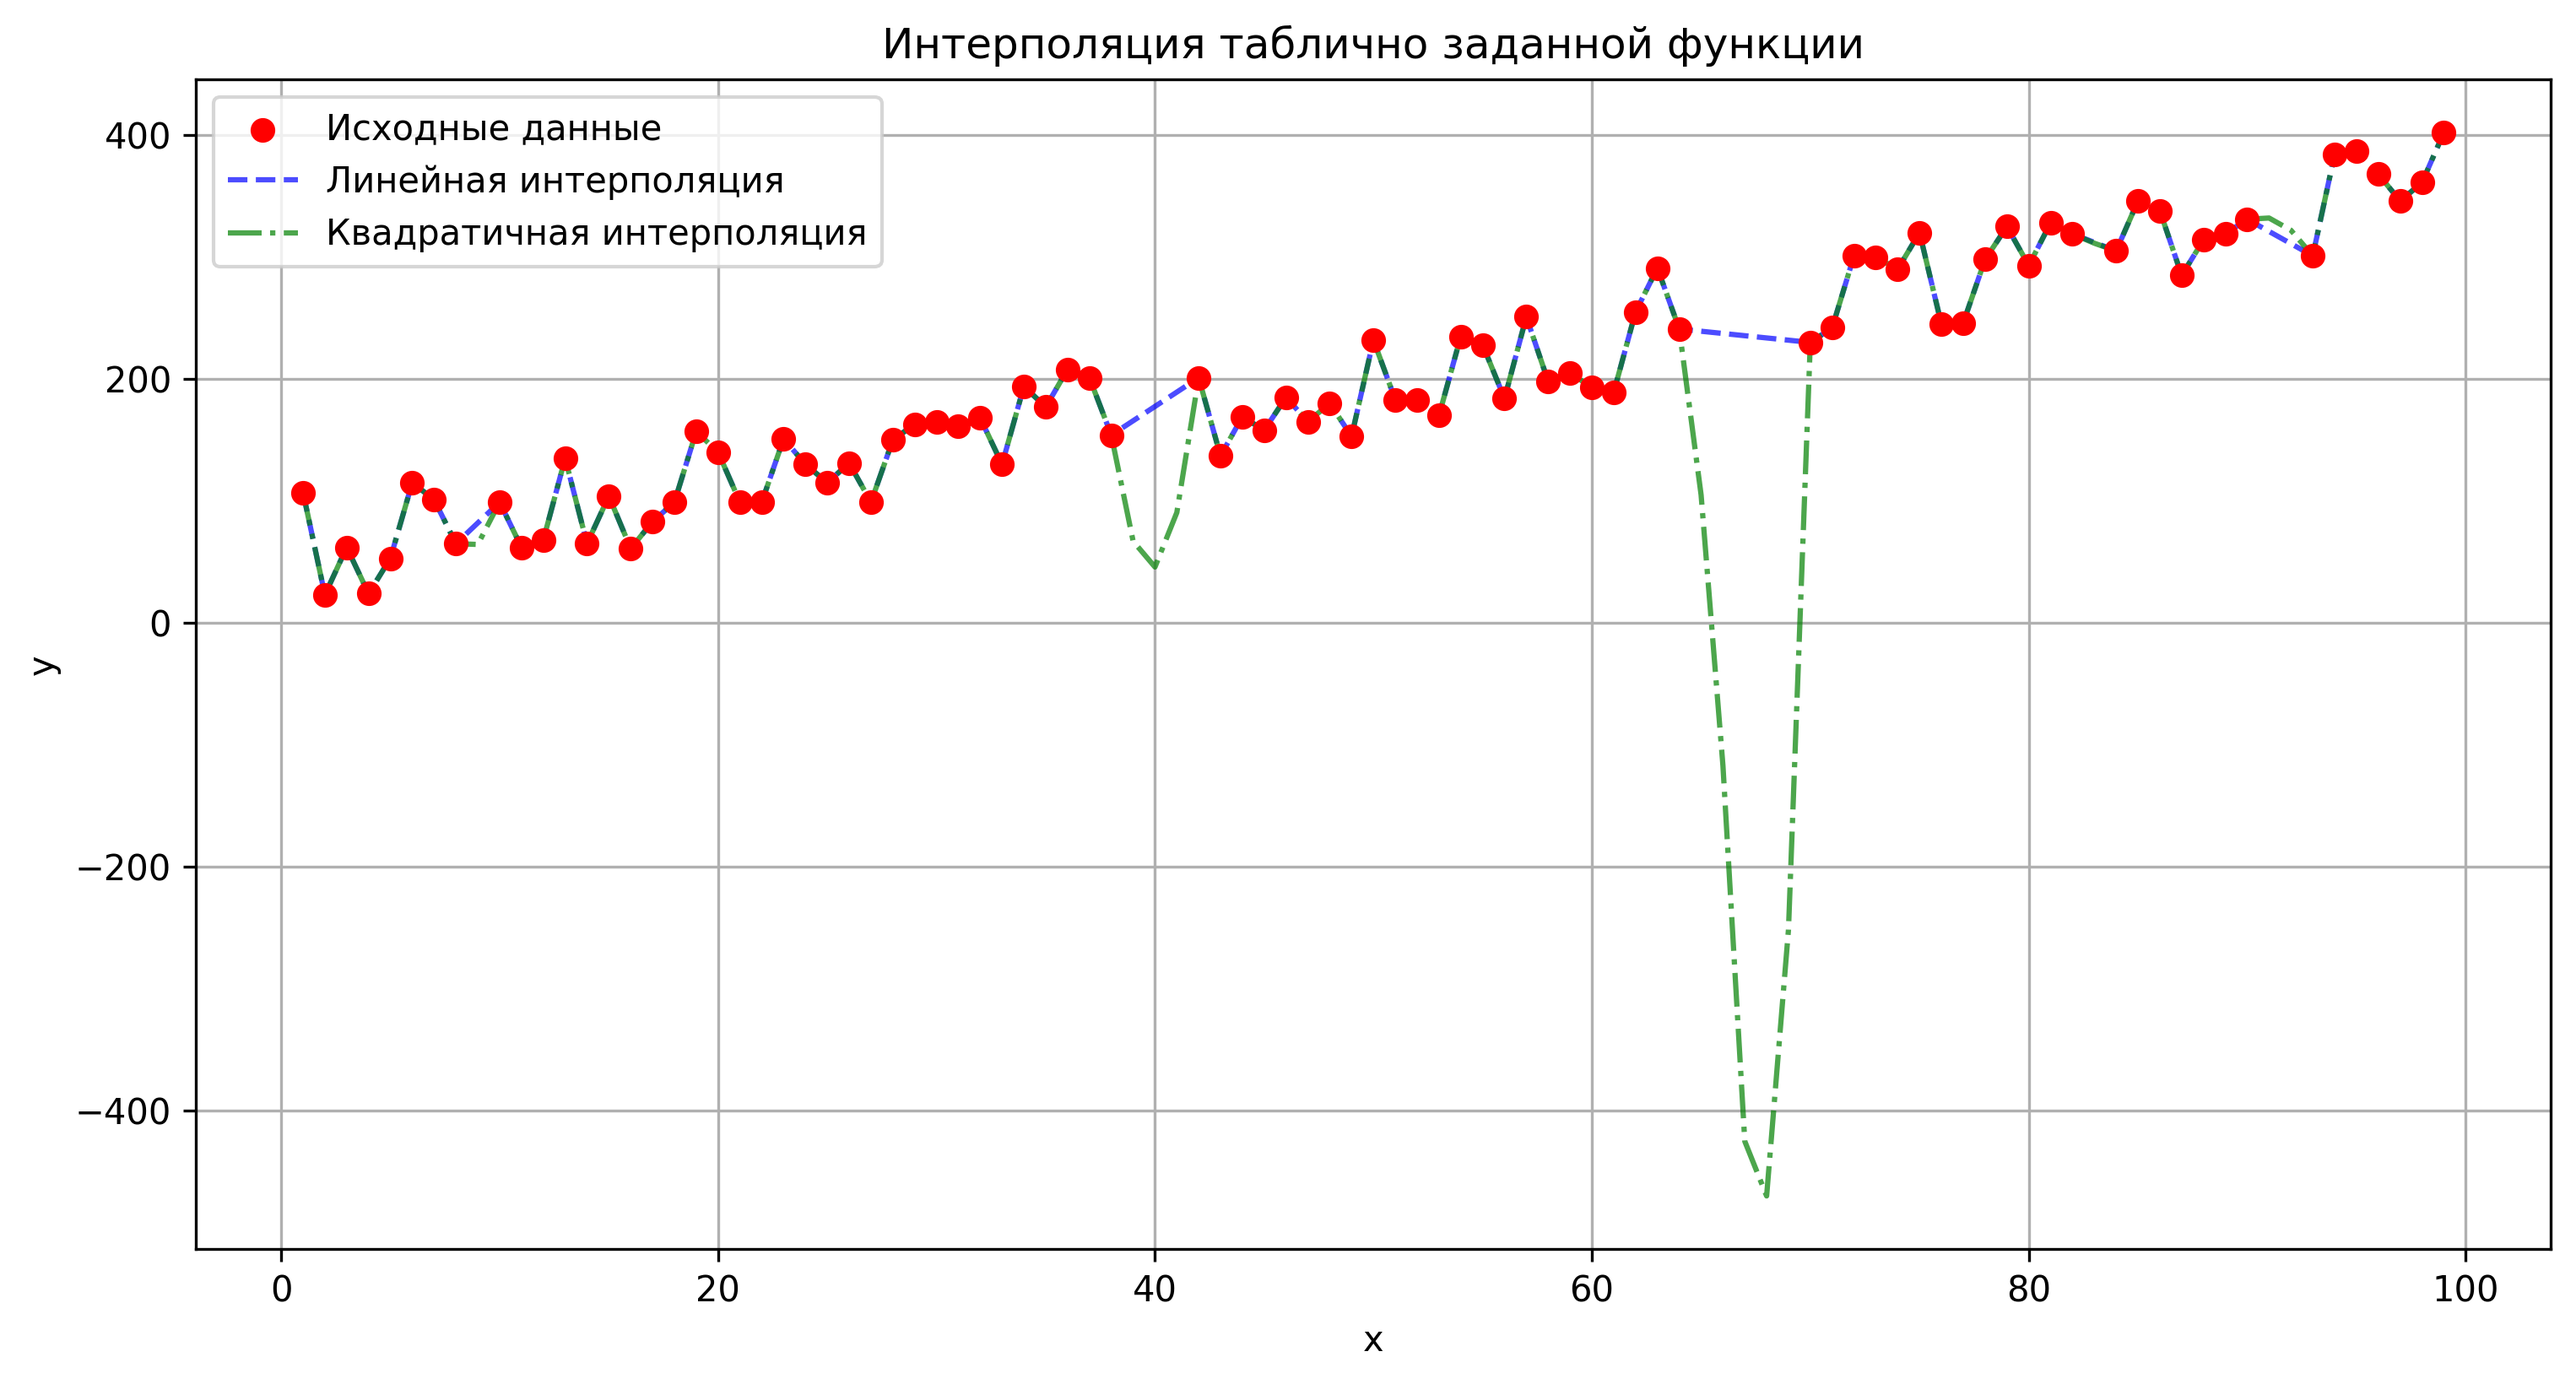
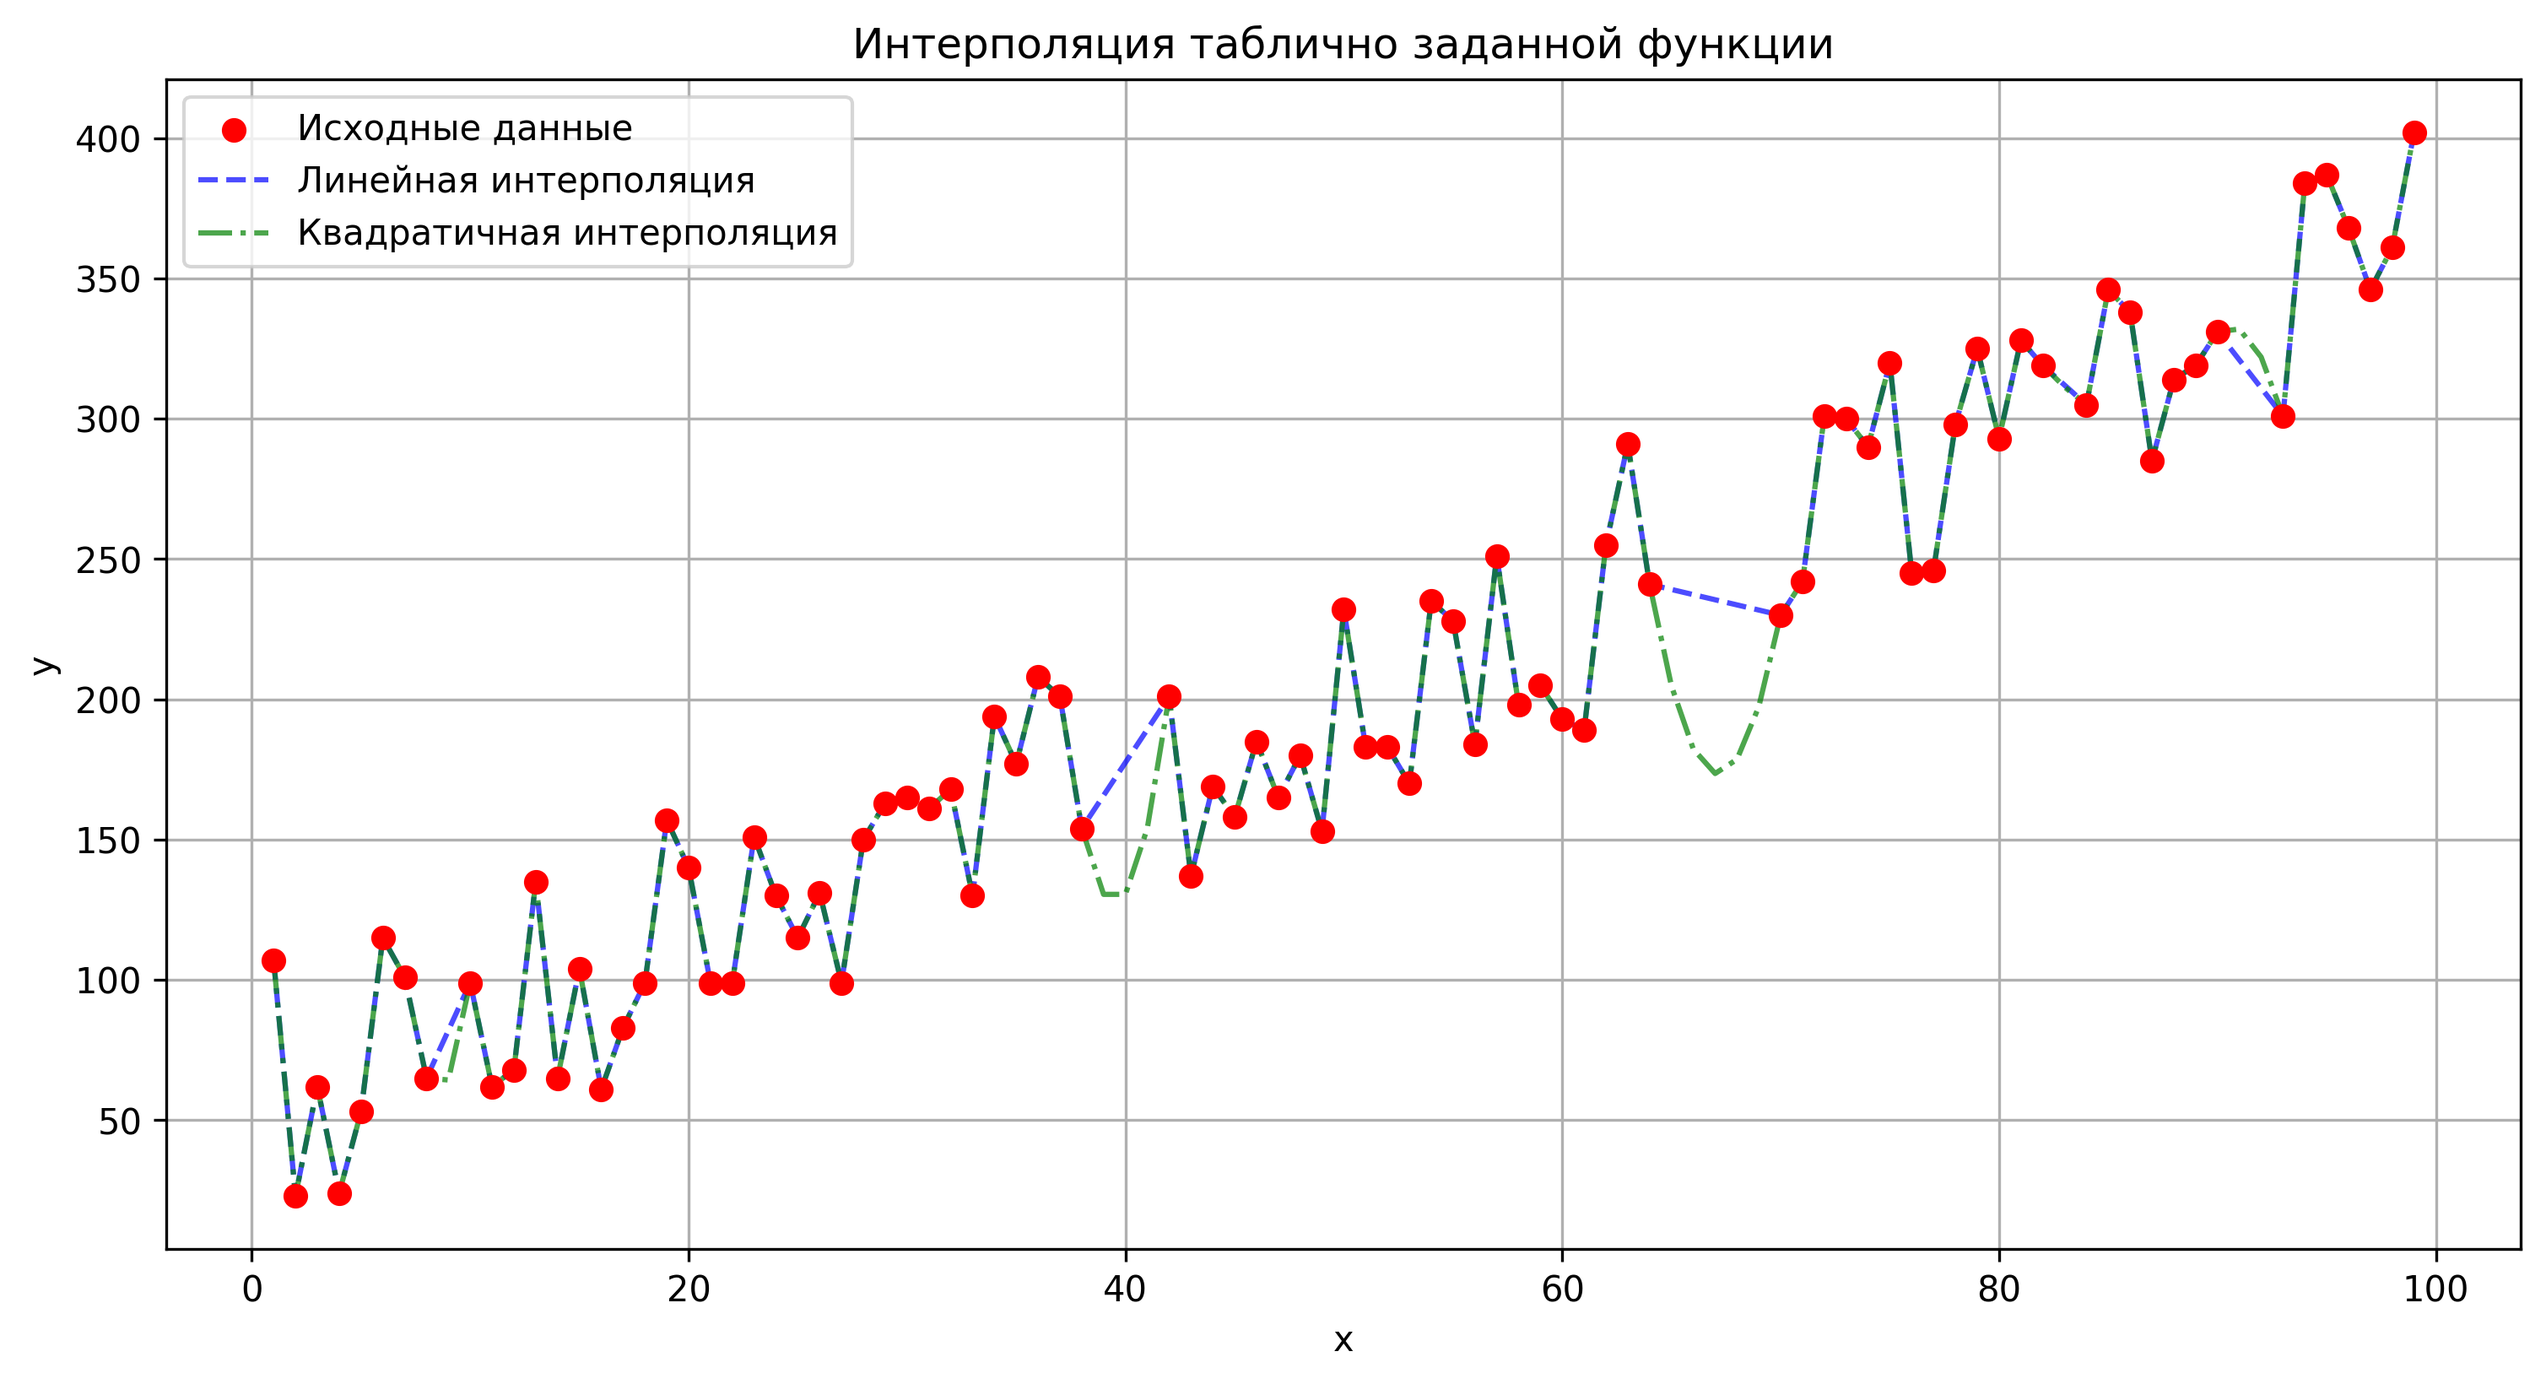
improve points search

diff --git a/lab2/main.py b/lab2/main.py
@@ -55,68 +55,81 @@ def linear_interpolation(x, y, verbose=False):
 def quadratic_interpolation(x, y, verbose=False):
     y_interp = y.copy()
     interpolation_info = {}
-    
+
+    # Получаем индексы всех известных (не NaN) точек
+    valid_indices = [i for i in range(len(y)) if y[i] == y[i]]
+
     for i in range(len(y_interp)):
-        if y_interp[i] != y_interp[i]:
-            valid_points = []
-            for j in range(len(y_interp)):
-                if y_interp[j] == y_interp[j]:
-                    valid_points.append(j)
-            
-            closest = sorted(valid_points, key=lambda j: abs(x[j] - x[i]))[:3]
-            closest = sorted(closest)
-            
-            if len(closest) >= 3:
-                x0, x1, x2 = x[closest[0]], x[closest[1]], x[closest[2]]
-                y0, y1, y2 = y_interp[closest[0]], y_interp[closest[1]], y_interp[closest[2]]
-                
-                #  Метод Крамера!
-                det = (x0**2 * (x1 - x2)) + (x0 * (x2**2 - x1**2)) + (x1**2 * x2 - x2**2 * x1)
-                det_a = y0 * (x1 - x2) + y1 * (x2 - x0) + y2 * (x0 - x1)
-                det_b = x0**2 * (y1 - y2) + y0 * (x2**2 - x1**2) + x1**2 * y2 - x2**2 * y1
-                det_c = x0**2 * (x1 * y2 - x2 * y1) + x0 * (x2**2 * y1 - x1**2 * y2) + y0 * (x1**2 * x2 - x2**2 * x1)
-                
-                a = det_a / det
-                b = det_b / det
-                c = det_c / det
-                
-                y_interp[i] = a * x[i]**2 + b * x[i] + c
-                
-                info = {
-                    'x': x[i],
-                    'used_points': [(x[closest[0]], y[closest[0]]), 
-                                (x[closest[1]], y[closest[1]]), 
-                                (x[closest[2]], y[closest[2]])],
-                    'interpolated_value': y_interp[i],
-                    'method': 'quadratic',
-                    'coefficients': {'a': a, 'b': b, 'c': c}
-                }
-                interpolation_info[i] = info
-                
-                if verbose:
-                    print(f"Точка x={x[i]}: использованы точки (x={x[closest[0]]}, y={y[closest[0]]}), "
-                          f"(x={x[closest[1]]}, y={y[closest[1]]}), (x={x[closest[2]]}, y={y[closest[2]]})")
-                    print(f"Коэффициенты: a={a:.4f}, b={b:.4f}, c={c:.4f}")
-                    print(f"Результат интерполяции: {y_interp[i]:.2f}\n")
-                
-            elif len(closest) >= 2:
-                # Линейная интерполяция, если не хватает точек
-                left, right = closest[0], closest[-1]
-                y_interp[i] = y_interp[left] + (y_interp[right] - y_interp[left]) * (x[i] - x[left]) / (x[right] - x[left])
-                
-                info = {
-                    'x': x[i],
-                    'used_points': [(x[left], y[left]), (x[right], y[right])],
-                    'interpolated_value': y_interp[i],
-                    'method': 'linear (fallback)'
-                }
-                interpolation_info[i] = info
-                
-                if verbose:
-                    print(f"Точка x={x[i]}: недостаточно точек для квадратичной интерполяции")
-                    print(f"Использована линейная интерполяция между (x={x[left]}, y={y[left]}) и (x={x[right]}, y={y[right]})")
-                    print(f"Результат интерполяции: {y_interp[i]:.2f}\n")
-    
+        if y_interp[i] != y_interp[i]:  # Если NaN
+            left_points = sorted(
+                [(j, abs(x[j] - x[i])) for j in valid_indices if x[j] < x[i]],
+                key=lambda p: p[1]
+            )
+            right_points = sorted(
+                [(j, abs(x[j] - x[i])) for j in valid_indices if x[j] > x[i]],
+                key=lambda p: p[1]
+            )
+
+            left_candidates = [j for j, _ in left_points[:2]]
+            right_candidates = [j for j, _ in right_points[:2]]
+
+            candidates = []
+            candidates.extend(left_candidates)
+            candidates.extend(right_candidates)
+
+            while len(candidates) < 3 and (left_points or right_points):
+                if left_points:
+                    extra = left_points.pop(0)[0]
+                    if extra not in candidates:
+                        candidates.append(extra)
+                elif right_points:
+                    extra = right_points.pop(0)[0]
+                    if extra not in candidates:
+                        candidates.append(extra)
+
+            if len(candidates) < 3:
+                continue
+
+            unique_x = set(x[j] for j in candidates[:3])
+            if len(unique_x) < 2:
+                continue
+
+            points = [(x[j], y_interp[j]) for j in candidates[:3]]
+            x0, y0 = points[0]
+            x1, y1 = points[1]
+            x2, y2 = points[2]
+
+            det = (x0**2 * (x1 - x2)) + (x0 * (x2**2 - x1**2)) + (x1**2 * x2 - x2**2 * x1)
+            if det == 0:
+                continue
+
+            det_a = y0 * (x1 - x2) + y1 * (x2 - x0) + y2 * (x0 - x1)
+            det_b = x0**2 * (y1 - y2) + y0 * (x2**2 - x1**2) + x1**2 * y2 - x2**2 * y1
+            det_c = x0**2 * (x1 * y2 - x2 * y1) + x0 * (x2**2 * y1 - x1**2 * y2) + y0 * (x1**2 * x2 - x2**2 * x1)
+
+            a = det_a / det
+            b = det_b / det
+            c = det_c / det
+
+            interpolated = a * x[i]**2 + b * x[i] + c
+            y_interp[i] = interpolated
+
+            info = {
+                'x': x[i],
+                'used_points': points,
+                'interpolated_value': interpolated,
+                'method': 'quadratic',
+                'coefficients': {'a': a, 'b': b, 'c': c}
+            }
+            interpolation_info[i] = info
+
+            if verbose:
+                print(f"Точка x={x[i]}: использованы точки:")
+                for pt in points:
+                    print(f"  (x={pt[0]}, y={pt[1]:.2f})")
+                print(f"Коэффициенты: a={a:.4f}, b={b:.4f}, c={c:.4f}")
+                print(f"Результат интерполяции: {interpolated:.2f}\n")
+
     return y_interp, interpolation_info
 
 def save_results(filename, data):
